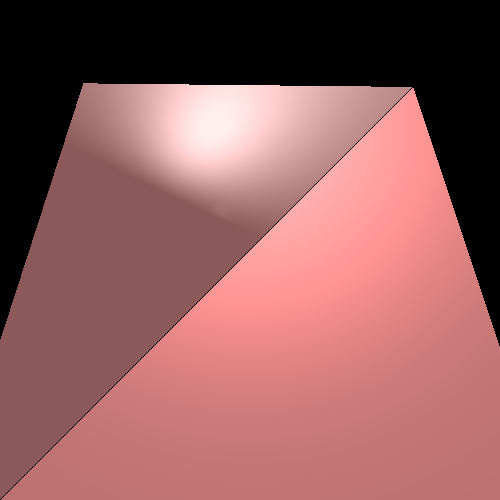
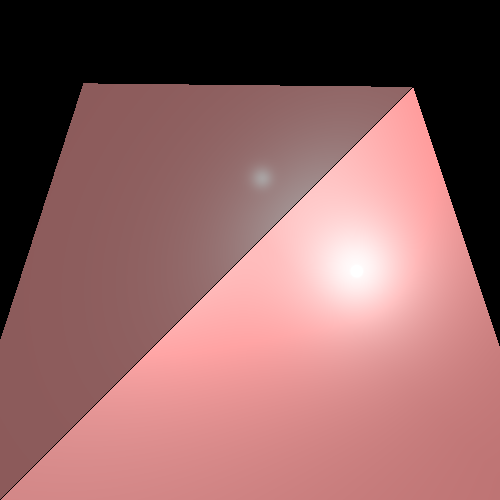
We are the champions my friend

diff --git a/src/elements/PointLight.java b/src/elements/PointLight.java
@@ -4,61 +4,69 @@ import primitives.Color;
 import primitives.Point3D;
 import primitives.Vector;
 
-public class PointLight extends Light implements LightSource{
+/**
+ *
+ */
+public class PointLight extends Light implements LightSource {
+
 
     private Point3D position;
-    private double kC=1, kL=0, kQ=0;
-    /**
-     Constructor with parameters
-     **/
+    private double kC = 1;
+    private double kL = 0;
+    private double kQ = 0;
 
-    public PointLight(Color col,Point3D point){
-        super(col);
-        position=point;
 
+    /**do
+     * PointLight ctor
+     *
+     * @param intensity
+     * @param position
+     */
+    public PointLight(Color intensity, Point3D position) {
+        super(intensity);
+        this.position = position;
     }
 
-
-    /*
-     Getters according to Builder pattern
+    /**
+     * @param kC the kC to set
      */
     public PointLight setKc(double kC) {
         this.kC = kC;
         return this;
     }
 
+    /**
+     * @param kL the kL to set
+     */
     public PointLight setKl(double kL) {
         this.kL = kL;
         return this;
     }
 
+    /**
+     * @param kQ the kQ to set
+     */
     public PointLight setKq(double kQ) {
         this.kQ = kQ;
         return this;
     }
-
     /**
-     * This function calculates the intensity of a points and returns the new color
-     *
      * @param p
-     * @return the new color with intensity
+     * @return the intensity of the object on a specific point which is reduced by the distance of the point
      */
     @Override
-    public Color getIntensity(Point3D p) {
+    public Color getIntensity(Point3D p)
+    {
         double distance=position.subtract(p).length();
-        double tmp=kC+kL*distance+kQ*distance*distance;
-        return intensity.reduce(tmp) ;
+        return intensity.reduce(kC+kL*distance+kQ*distance*distance) ;
     }
-
     /**
-     * This function calculates and returns the direction of the light source
-     *
      * @param p
-     * @return a directional vector
+     * @return the vector direction from the light to the point (normalized)
      */
     @Override
     public Vector getL(Point3D p) {
-        return position.subtract(p).normalized();
+        return p.subtract(position).normalize();
     }
 
 }

diff --git a/src/unittests/LightsTests.java b/src/unittests/LightsTests.java
@@ -141,47 +141,5 @@ public class LightsTests {
 		render.writeToImage();
 	}
 
-	/**
-	 * Produce a picture of a sphere lighted by all types of light
-	 */
-	@Test
-	public void sphereAllLights() {
-		scene1.geometries.add(sphere);
-		scene1.lights.add(new DirectionalLight(new Color(0, 500, 500), new Vector(0, 0, -1)));
-		scene1.lights.add(new PointLight(new Color(0, 300, 500), new Point3D(-50, -50, 0))//
-				.setKl(0.00000001).setKq(0.0000001));
-		scene1.lights.add(new SpotLight(new Color(500, 300, 0), new Point3D(-60, 80, -60), new Vector(-1, -1, 5)) //
-				.setKl(0.00001).setKq(0.00000001));
 
-		ImageWriter imageWriter = new ImageWriter("allLightSphere", 500, 500);
-		Render render = new Render()//
-				.setImageWriter(imageWriter) //
-				.setCamera(camera1) //
-				.setRayTracer(new RayTracerBasic(scene1));
-		render.renderImage();
-		render.writeToImage();
-	}
-
-
-	/**
-	 * Produce a picture of a two triangles lighted by all types of light
-	 */
-	@Test
-	public void trianglesAllLights() {
-		scene2.geometries.add(triangle1.setMaterial(new Material().setKd(0.5).setKs(0.5).setShininess(300)),
-				triangle2.setMaterial(new Material().setKd(0.5).setKs(0.5).setShininess(300)));
-		scene2.lights.add(new DirectionalLight(new Color(300, 150, 150), new Vector(0, -0.05, -1)));
-		scene2.lights.add(new PointLight(new Color(100, 250, 250), new Point3D(50, -10, -130)) //
-				.setKl(0.0005).setKq(0.0005));
-		scene2.lights.add(new SpotLight(new Color(500, 500, 500), new Point3D(-50, 50, -130), new Vector(-2, -2, -1)) //
-				.setKl(0.0001).setKq(0.000005));
-
-		ImageWriter imageWriter = new ImageWriter("allLightTriangles", 500, 500);
-		Render render = new Render()//
-				.setImageWriter(imageWriter) //
-				.setCamera(camera2) //
-				.setRayTracer(new RayTracerBasic(scene2));
-		render.renderImage();
-		render.writeToImage();
-	}
 }

diff --git a/src/renderer/RayTracerBasic.java b/src/renderer/RayTracerBasic.java
@@ -64,7 +64,7 @@ public class RayTracerBasic extends RayTracerBase {
     Color calcSpecular(double kS, Vector l, Vector n, Vector v, int nShininess, Color lightIntensity, double dp) {
         v = v.normalize();
         Vector r = l.substractV(n.scale(2 * dp));
-        return lightIntensity.scale(kS * Math.pow(Math.max(0, (-1) * v.dotProduct(r)), nShininess));
+        return lightIntensity.reduce(1/(kS * Math.pow(Math.max(0, (-1) * v.dotProduct(r)), nShininess)));
     }
 
     Color calcDiffusive(double kD, Color lightIntensity, double dp) {

diff --git a/src/elements/Camera.java b/src/elements/Camera.java
@@ -161,9 +161,9 @@ public class Camera {
      */
     public Camera turnCamera(Vector axis, double theta) {
         if (theta == 0) return this;
-        // this.vUp.rotateVector(axis, theta);
-        //  this.vRight.rotateVector(axis, theta);
-        // this.vTo.rotateVector(axis, theta);
+         this.vUp.rotateVector(axis, theta);
+         this.vRight.rotateVector(axis, theta);
+        this.vTo.rotateVector(axis, theta);
         return this;
     }
 

diff --git a/src/scene/Scene.java b/src/scene/Scene.java
@@ -14,7 +14,7 @@ public class Scene {
     private final String _name;
 
     public Color background = Color.BLACK;
-    public AmbientLight ambientlight= new AmbientLight(new Color(192, 192, 192),1.d); ;
+    public AmbientLight ambientlight= new AmbientLight(); ;
     public Geometries geometries = null;
 
 

diff --git a/src/primitives/Material.java b/src/primitives/Material.java
@@ -4,7 +4,8 @@ package primitives;
 public class Material {
 
 
-    public double kS=0,kD=0;
+    public double kS=0;
+    public double kD=0;
     public int nShininess=0;
 
     public Material(double kD, double kS, int nShininess) {
